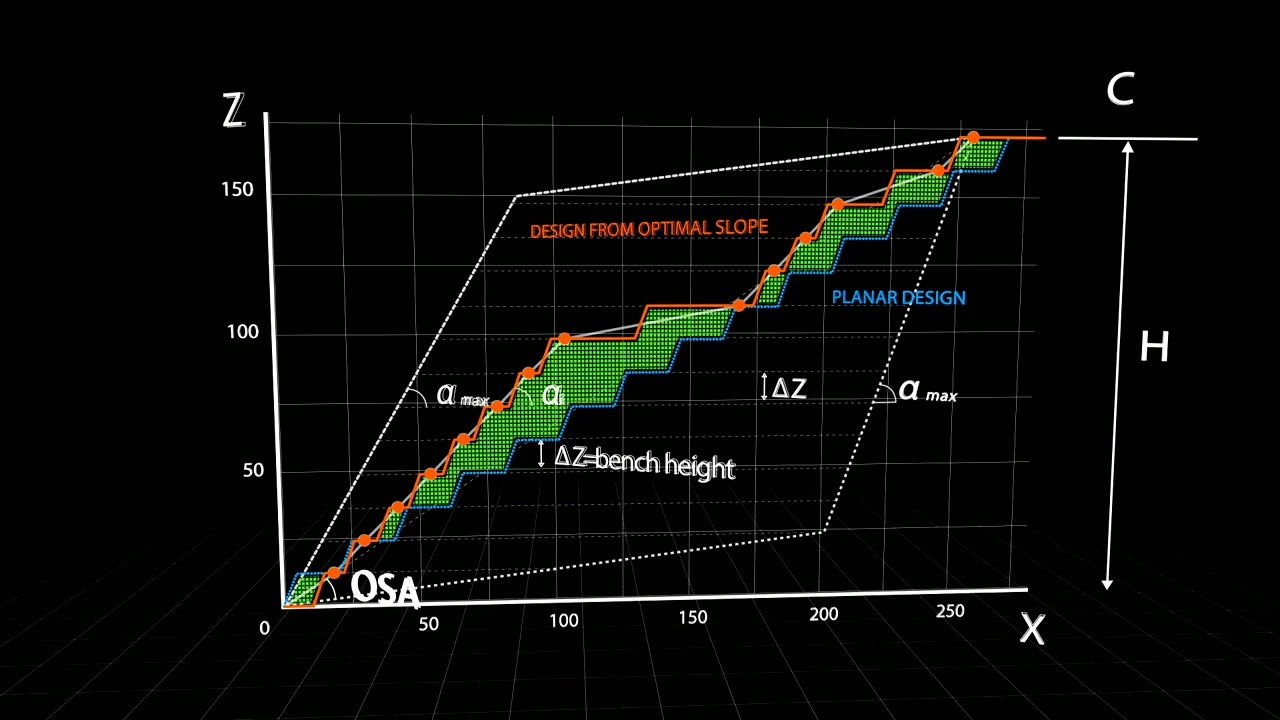
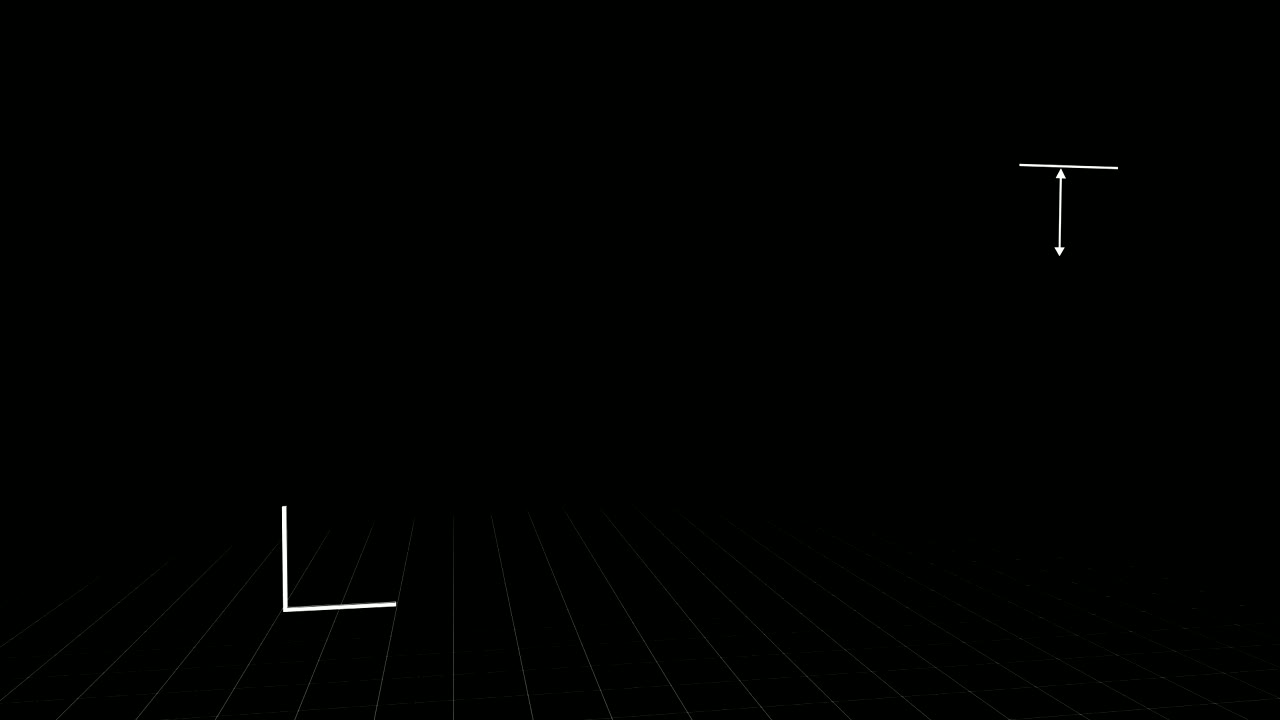
Fix loop-video paused state, and rewrite the product description
The animations looked like static screenshots. Two causes, both real:

- The poster was extracted from the *end* of each clip, so a video that had
  not started yet already showed a finished diagram. Posters now come from the
  first frame, which reads as something waiting to run.
- The Pause label was hardcoded in the markup and only updated on a play or
  pause event, so whenever playback never started - autoplay refused, reduced
  motion, a stale cached script - the button read "Pause" over a motionless
  video, telling the reader the opposite of what to do. State is now read from
  the element on init.

Also adds a play badge over the poster while paused, so a still frame is never
mistaken for a plain image. The triangle is drawn with CSS borders rather than
a FontAwesome glyph: the icon font is a dependency this component does not
otherwise need, and it was rendering as an empty circle.

Sets video.muted in JS as well as markup - the autoplay policy keys off the
property, and the attribute alone is not always honoured after bfcache restore.

Description rewrite: "helps evaluate slope geometry, generate simulation
inputs..." described the UI rather than the product. It now says what the
software does - automates open pit slope design from stratigraphy, rock
properties and a target factor of safety - matching optimalslope.com.

diff --git a/assets/gitbook/custom-local.css b/assets/gitbook/custom-local.css
@@ -425,3 +425,43 @@ body.os-media-modal-open {
 .book:not(.color-theme-1):not(.color-theme-2) #book-search-input input::placeholder {
     color: rgba(255, 255, 255, 0.55);
 }
+
+/* A paused loop shows a play badge over the poster. Without it a still frame
+   is indistinguishable from a plain screenshot, and the reader has no reason
+   to think anything is meant to move. */
+
+.os-loop-video .os-expandable-media-window {
+    position: relative;
+}
+
+.os-loop-video.is-paused .os-expandable-media-window::after {
+    content: "";
+    position: absolute;
+    left: 50%;
+    top: 50%;
+    transform: translate(-50%, -50%);
+    width: 66px;
+    height: 66px;
+    border-radius: 50%;
+    background: rgba(10, 78, 118, 0.82);
+    pointer-events: none;
+    box-shadow: 0 6px 20px rgba(0, 0, 0, 0.35);
+}
+
+/* The triangle is drawn with borders rather than a FontAwesome glyph: the icon
+   font is a dependency this component does not otherwise need, and when it
+   fails to map the codepoint the badge renders as an empty circle. */
+.os-loop-video.is-paused .os-expandable-media-window::before {
+    content: "";
+    position: absolute;
+    left: 50%;
+    top: 50%;
+    z-index: 1;
+    transform: translate(-40%, -50%);
+    width: 0;
+    height: 0;
+    border-style: solid;
+    border-width: 13px 0 13px 21px;
+    border-color: transparent transparent transparent #ffffff;
+    pointer-events: none;
+}

diff --git a/assets/gitbook/loop-video.js b/assets/gitbook/loop-video.js
@@ -39,8 +39,17 @@
             return;
         }
 
+        video.muted = true;
+
         var toggle = figure.querySelector("[data-loop-toggle]");
         var restart = figure.querySelector("[data-loop-restart]");
+
+        // The markup ships with a "Pause" label. Correct it to whatever is
+        // actually true right now: if playback never starts - autoplay refused,
+        // reduced motion, script cached stale - a button reading "Pause" over a
+        // motionless video tells the reader the opposite of what to do.
+        setToggleState(figure, video.paused);
+        figure.classList.toggle("is-paused", video.paused);
 
         if (toggle) {
             toggle.addEventListener("click", function () {
@@ -59,8 +68,14 @@
             });
         }
 
-        video.addEventListener("play", function () { setToggleState(figure, false); });
-        video.addEventListener("pause", function () { setToggleState(figure, true); });
+        video.addEventListener("play", function () {
+            setToggleState(figure, false);
+            figure.classList.remove("is-paused");
+        });
+        video.addEventListener("pause", function () {
+            setToggleState(figure, true);
+            figure.classList.add("is-paused");
+        });
 
         // Clicking the video itself is the obvious gesture; honour it.
         video.addEventListener("click", function () {

diff --git a/README.md b/README.md
@@ -462,7 +462,7 @@ permalink: /
 <div class="os-home-section-head" markdown="0">
 <div class="label">Introduction</div>
 <h2 id="introduction">Introduction</h2>
-<p>OptimalSlope helps evaluate slope geometry, generate simulation inputs, run cloud simulations, and export optimised slope profiles.</p>
+<p>Slope Optimiser automates open pit slope design. Give it the stratigraphy, rock properties and a target factor of safety, and it finds the steepest safe pitwall profile - so less waste rock has to be excavated.</p>
 </div>
 <div class="os-home-section-body" markdown="1">
 
